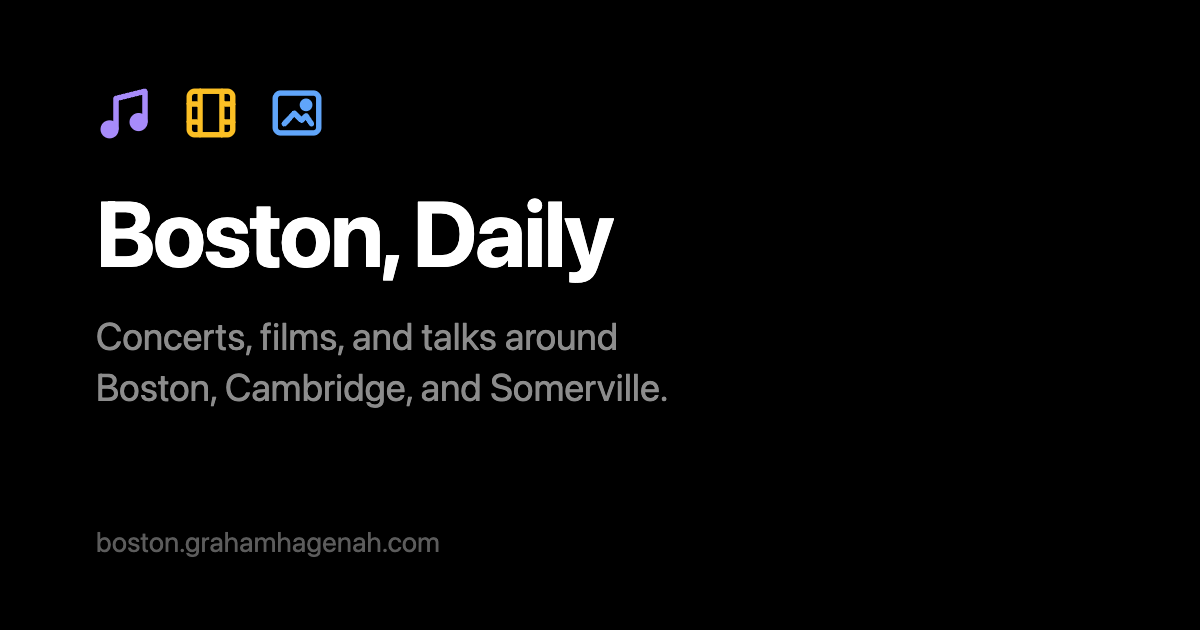
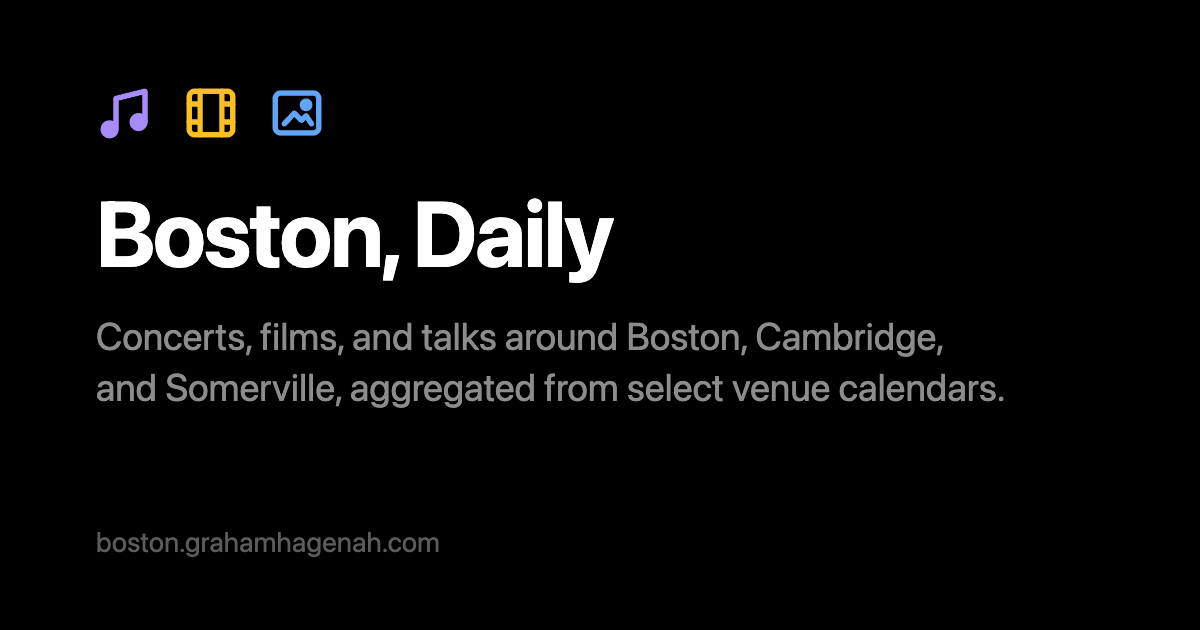
Home share card with the new tagline, taken from the page's own

Changed region(s): [[0.0617, 0.573, 0.8325, 0.6635], [0.5242, 0.5127, 0.8017, 0.573]]

diff --git a/events/share_cards.py b/events/share_cards.py
@@ -17,7 +17,7 @@ COLORS = {"music": "#a78bfa", "film": "#fbbf24", "art": "#60a5fa"}
 
 # The home card, then each kind's: its file, heading, the line under it, and the icons it shows.
 CARDS = [
-    ("home", build.PUBLIC_NAME, "Concerts, films, and talks around Boston, Cambridge, and Somerville.", list(COLORS), ""),
+    ("home", build.PUBLIC_NAME, build.PUBLIC_TAGLINE, list(COLORS), ""),
     ("music", "Concerts around Boston", "Clubs, bars and halls across Boston, Cambridge, and Somerville.", ["music"], "music/"),
     ("film", "Films around Boston", "Repertory screenings to new releases, at theaters across Boston, Cambridge, and Somerville.", ["film"], "film/"),
     ("talks", "Art & talks around Boston", "Artist talks, lectures and exhibitions around Boston, Cambridge, and Somerville.", ["art"], "talks/"),
